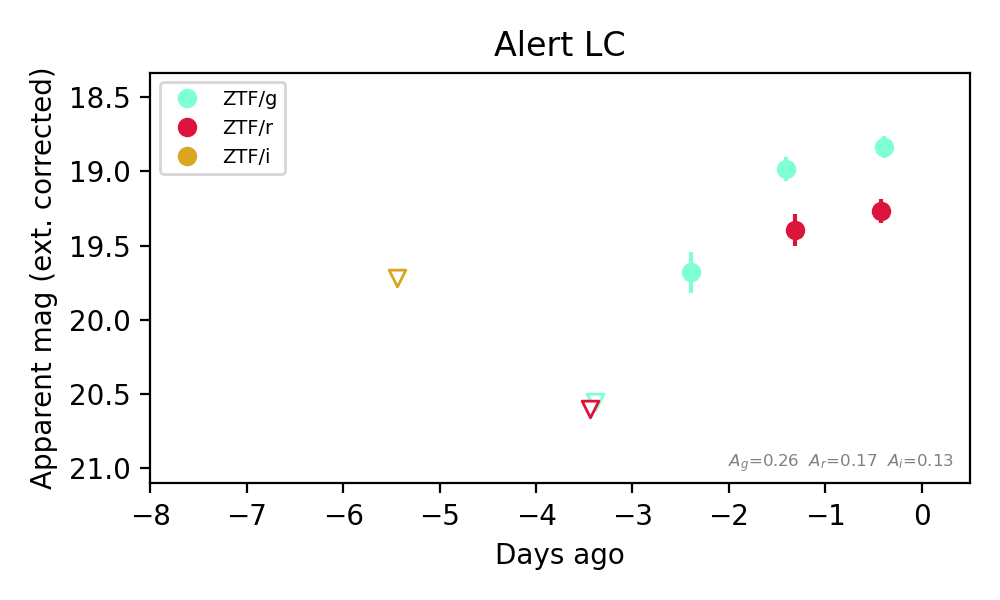
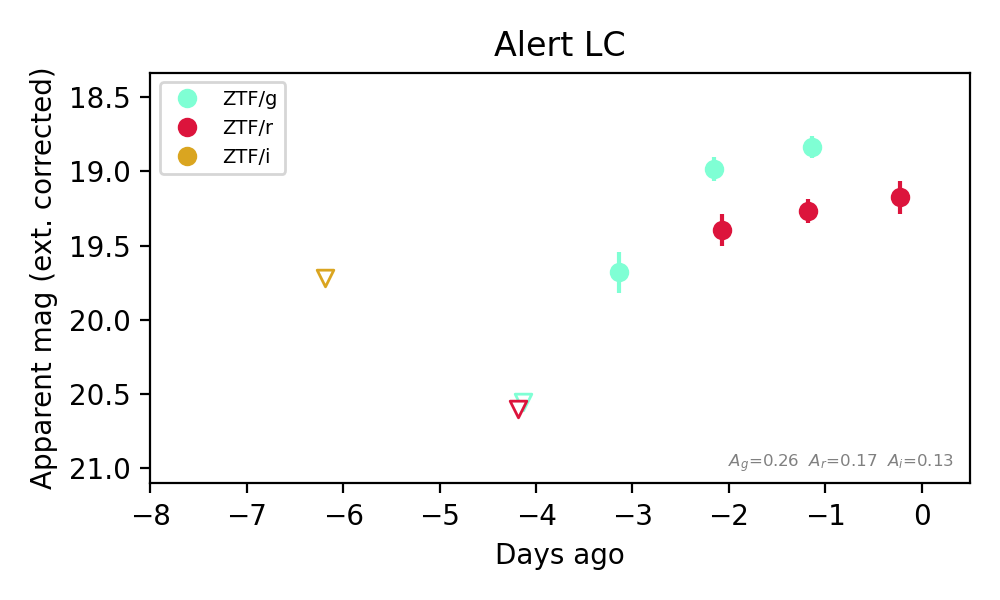
Update HTML from cron job on Mon Sep 14 07:24:53 AM EDT 2026

diff --git a/html/20260914_fastcand.html b/html/20260914_fastcand.html
@@ -1,0 +1,3 @@
+<!doctype html><html><head><title>SOURCE MARSHAL</title><style>                  * {                     box-sizing: border-box;                  }                /* Create two equal columns that floats next to each other */                .column {                         float: left;                         width: 50%;                         padding: 10px;                         #height: 220px; /* Should be removed. Only for demonstration */                }                /* Clear floats after the columns */                .row:after {                        content: "";                        display: table;                        clear: both;                }                /* Rounded corner definition */                #rcorners2 {                    border-radius: 15px;                    border: 2px solid #73AD21;                    padding: 15px;                     width: 80%;                }                table, th, td {                    border: 1px solid black;                    border-collapse: collapse;                }                th, td {                    padding: 5px;                }                th {                    text-align: right;                }                .boxed {                    width: 300px;                    border: 3px outset green;                    text-align: center;                    font-size: 20px;                    margin: 10px;                }                 </style></head><body><font size="5" color="green">Candidate List 20260914</font></br><font size="3" color="green">Last night &mdash; ZTF: 2,570 passed basic cuts (67 young) &middot; LSST: 0 passed basic cuts (0 young)</font></br></br><a href=20260913_fastcand.html target="_blank"><font size="3" color="green">Previous Day</font></a>&nbsp;&nbsp;&nbsp;&nbsp;<a href=20260915_fastcand.html target="_blank"><font size="3" color="green">Next Day</font></a>&nbsp;&nbsp;&nbsp;&nbsp;<br><br><font size="4" color="green"><a href="#sec1">Section 1: New Sources (age<1d)</a></font>&nbsp;&nbsp;&nbsp;&nbsp;<font size="4" color="green"><a href="#sec2">Section 2: Old (1-5d) sources observed last night</a></font></br><font size="1" color="white">placeholder</font></br><hr style="width:50%;text-align:left;margin-left:0"><br><div id="sec1"></div><div class="boxed">Section 1: New Afterglow/FBOT Cands Last Night (0)</div><br><br><br><div id="sec2"></div><div class="boxed">Section 2: Older Sources Observed Last Night (7)</div><div id="ZTF26abstnlr"></div>0. <a href="#ZTF26abstnlr"><b><font size="3">[ZTF] ZTF26abstnlr (Afterglow?)</font></b></a>&nbsp;&nbsp;&nbsp;&nbsp;<a href=#top>[Back to Top]</a>&nbsp;&nbsp;&nbsp;&nbsp;<a href=./ZTF26abstnlr_announcement.txt>[Share]</a>&nbsp;&nbsp;&nbsp;&nbsp;<a href=./ZTF26abstnlr_swifttoo.txt>[Trigger Swift]</a></br>&nbsp;&nbsp;&nbsp;&nbsp;[<a href="https://fritz.science/brokers?objectId=ZTF26abstnlr&survey=ZTF&ra=77.3801377&dec=3.1022618&radius=3" target="_blank">Fritz Alert</a>]&nbsp;&nbsp;&nbsp;&nbsp;[<a href="https://fritz.science/source/ZTF26abstnlr" target="_blank">Fritz Source</a>]&nbsp;&nbsp;&nbsp;&nbsp;[<a href="https://lasair-ztf.lsst.ac.uk/objects/ZTF26abstnlr/" target="_blank">Lasair</a>]</br>RA, Dec: 77.38014, 3.10226&nbsp;&nbsp;&nbsp;&nbsp; 5h 9m31.23s,  3d 6m8.14s</br>Galactic (l, b): 197.78373, -20.95422&nbsp;&nbsp;&nbsp;&nbsp;ext(g-r) = 0.091</br></br><img src="./ZTF26abstnlr_triplet.png" height="200"><a href = http://ps1images.stsci.edu/cgi-bin/ps1cutouts?pos=77.380138+3.102262&filter=color&filter=g&filter=r&filter=i&filter=z&filter=y&filetypes=stack&auxiliary=data&size=240&output_size=240&verbose=0&autoscale=99.500000><img src="./ZTF26abstnlr_ps1.png" height="200"></a><a href = http://legacysurvey.org/viewer?ra=77.380138&dec=+3.102262&zoom=16&layer=ls-dr10><img src="ZTF26abstnlr_ls.png" height="200"></a></br><br><br>TESS: Sectors [  5  32  98 110]<br><br><br><br><br>PS1: 0 sources in 3 arcsec</br><br><b>LegacySurvey: 1 sources in 3 arcsec</b>&nbsp;&nbsp;&nbsp;&nbsp;Closest: d = 0.30 arcsec, 218.8 deg (east of north)</br>&nbsp;&nbsp;&nbsp;&nbsp;photoz=0.14 (68&#37; bounds 0.12, 0.16),                         type=DEV&nbsp;&nbsp;&nbsp;&nbsp;<b>peak abs mag (ext. corrected) = -19.23 (68&#37; bounds -18.89, -19.58)</b><br><img src="ZTF26abstnlr_alert_lc.png" height="300"><br>Extinction-corrected gr color:<br>From alerts: 0.01 +/- 0.28 mag<br>Extinction-corrected gi color:<br>From alerts: 0.07 +/- 0.25 mag<br>Extinction-corrected ri color:<br>From alerts: -0.53 +/- 0.26 mag<br><b> Consistent with synchrotron, g-r>0!</b><br>Rise Rate:<br>i: 0.71 mag/day <br><br>Fade Rate:<br><br><br><div id="ZTF26absuycv"></div>1. <a href="#ZTF26abswzfk"><b><font size="3">[ZTF] ZTF26abswzfk (FBOT?)</font></b></a>&nbsp;&nbsp;&nbsp;&nbsp;<a href=#top>[Back to Top]</a>&nbsp;&nbsp;&nbsp;&nbsp;<a href=./ZTF26abswzfk_announcement.txt>[Share]</a>&nbsp;&nbsp;&nbsp;&nbsp;<a href=./ZTF26abswzfk_swifttoo.txt>[Trigger Swift]</a></br>&nbsp;&nbsp;&nbsp;&nbsp;[<a href="https://fritz.science/brokers?objectId=ZTF26abswzfk&survey=ZTF&ra=294.4668246&dec=64.80914545&radius=3" target="_blank">Fritz Alert</a>]&nbsp;&nbsp;&nbsp;&nbsp;[<a href="https://fritz.science/source/ZTF26abswzfk" target="_blank">Fritz Source</a>]&nbsp;&nbsp;&nbsp;&nbsp;[<a href="https://lasair-ztf.lsst.ac.uk/objects/ZTF26abswzfk/" target="_blank">Lasair</a>]</br>RA, Dec: 294.46682, 64.80915&nbsp;&nbsp;&nbsp;&nbsp;19h37m52.04s, 64d48m32.92s</br>Galactic (l, b): 96.65353, 19.65767&nbsp;&nbsp;&nbsp;&nbsp;ext(g-r) = 0.123</br></br><img src="./ZTF26abswzfk_triplet.png" height="200"><a href = http://ps1images.stsci.edu/cgi-bin/ps1cutouts?pos=294.466825+64.809145&filter=color&filter=g&filter=r&filter=i&filter=z&filter=y&filetypes=stack&auxiliary=data&size=240&output_size=240&verbose=0&autoscale=99.500000><img src="./ZTF26abswzfk_ps1.png" height="200"></a><a href = http://legacysurvey.org/viewer?ra=294.466825&dec=+64.809145&zoom=16&layer=ls-dr10><img src="ZTF26abswzfk_ls.png" height="200"></a></br><br><br>TESS: Sectors [ 14  15  17  18  19  20  21  22  23  24  25  26  40  41  47  48  49  50
+  51  52  53  54  55  56  57  58  59  60  73  74  75  76  77  78  79  80
+  81  82  83  84  85  86 117 118 119 120 121]<br><br><br><br><br>PS1: 0 sources in 3 arcsec</br><br><b>LegacySurvey: 1 sources in 3 arcsec</b>&nbsp;&nbsp;&nbsp;&nbsp;Closest: d = 0.33 arcsec, 325.8 deg (east of north)</br>&nbsp;&nbsp;&nbsp;&nbsp;photoz=0.12 (68&#37; bounds 0.1, 0.13),                         type=SER&nbsp;&nbsp;&nbsp;&nbsp;<b>peak abs mag (ext. corrected) = -19.66 (68&#37; bounds -19.28, -19.97)</b><br><img src="ZTF26abswzfk_alert_lc.png" height="300"><br>Extinction-corrected gr color:<br>From alerts: 0.1 +/- 0.21 mag<br><b> Consistent with synchrotron, g-r>0!</b><br>Rise Rate:<br>g: 0.25 mag/day <br>r: 0.19 mag/day <br><br>Fade Rate:<br><br><br><div id="ZTF26absvidl"></div>2. <a href="#ZTF26abthpmr"><b><font size="3">[ZTF] ZTF26abthpmr (FBOT?)</font></b></a>&nbsp;&nbsp;&nbsp;&nbsp;<a href=#top>[Back to Top]</a>&nbsp;&nbsp;&nbsp;&nbsp;<a href=./ZTF26abthpmr_announcement.txt>[Share]</a>&nbsp;&nbsp;&nbsp;&nbsp;<a href=./ZTF26abthpmr_swifttoo.txt>[Trigger Swift]</a></br>&nbsp;&nbsp;&nbsp;&nbsp;[<a href="https://fritz.science/brokers?objectId=ZTF26abthpmr&survey=ZTF&ra=346.1075752&dec=35.4085926&radius=3" target="_blank">Fritz Alert</a>]&nbsp;&nbsp;&nbsp;&nbsp;[<a href="https://fritz.science/source/ZTF26abthpmr" target="_blank">Fritz Source</a>]&nbsp;&nbsp;&nbsp;&nbsp;[<a href="https://lasair-ztf.lsst.ac.uk/objects/ZTF26abthpmr/" target="_blank">Lasair</a>]</br>RA, Dec: 346.10758, 35.40859&nbsp;&nbsp;&nbsp;&nbsp;23h 4m25.82s, 35d24m30.93s</br>Galactic (l, b): 99.5254, -22.55293&nbsp;&nbsp;&nbsp;&nbsp;ext(g-r) = 0.082</br></br><img src="./ZTF26abthpmr_triplet.png" height="200"><a href = http://ps1images.stsci.edu/cgi-bin/ps1cutouts?pos=346.107575+35.408593&filter=color&filter=g&filter=r&filter=i&filter=z&filter=y&filetypes=stack&auxiliary=data&size=240&output_size=240&verbose=0&autoscale=99.500000><img src="./ZTF26abthpmr_ps1.png" height="200"></a><a href = http://legacysurvey.org/viewer?ra=346.107575&dec=+35.408593&zoom=16&layer=ls-dr10><img src="ZTF26abthpmr_ls.png" height="200"></a></br><br><br>TESS: Sectors [16 56 83]<br><br><br><br><br><b>PS1: 1 source in 3 arcsec</b>&nbsp;&nbsp;&nbsp;&nbsp;Closest: d = 1.64 arcsec&nbsp;&nbsp;&nbsp;&nbsp;photoz=0.53+/-0.09&nbsp;&nbsp;&nbsp;&nbsp;<b>peak abs mag = -23.65</b><br>LegacySurvey: 0 sources in 3 arcsec</br><br><img src="ZTF26abthpmr_alert_lc.png" height="300"><br>Extinction-corrected gr color:<br>From alerts: -0.43 +/- 0.11 mag<br><br>Rise Rate:<br>g: 0.88 mag/day <br>r: 0.57 mag/day <br><br>Fade Rate:<br><br><br><div id="ZTF26abteaub"></div>3. <a href="#ZTF26abtqfyy"><b><font size="3">[ZTF] ZTF26abtqfyy (FBOT?)</font></b></a>&nbsp;&nbsp;&nbsp;&nbsp;<a href=#top>[Back to Top]</a>&nbsp;&nbsp;&nbsp;&nbsp;<a href=./ZTF26abtqfyy_announcement.txt>[Share]</a>&nbsp;&nbsp;&nbsp;&nbsp;<a href=./ZTF26abtqfyy_swifttoo.txt>[Trigger Swift]</a></br>&nbsp;&nbsp;&nbsp;&nbsp;[<a href="https://fritz.science/brokers?objectId=ZTF26abtqfyy&survey=ZTF&ra=342.96098645&dec=16.02354735&radius=3" target="_blank">Fritz Alert</a>]&nbsp;&nbsp;&nbsp;&nbsp;[<a href="https://fritz.science/source/ZTF26abtqfyy" target="_blank">Fritz Source</a>]&nbsp;&nbsp;&nbsp;&nbsp;[<a href="https://lasair-ztf.lsst.ac.uk/objects/ZTF26abtqfyy/" target="_blank">Lasair</a>]</br>RA, Dec: 342.96099, 16.02355&nbsp;&nbsp;&nbsp;&nbsp;22h51m50.64s, 16d 1m24.77s</br>Galactic (l, b): 85.48641, -38.00262&nbsp;&nbsp;&nbsp;&nbsp;ext(g-r) = 0.075</br></br><img src="./ZTF26abtqfyy_triplet.png" height="200"><a href = http://ps1images.stsci.edu/cgi-bin/ps1cutouts?pos=342.960986+16.023547&filter=color&filter=g&filter=r&filter=i&filter=z&filter=y&filetypes=stack&auxiliary=data&size=240&output_size=240&verbose=0&autoscale=99.500000><img src="./ZTF26abtqfyy_ps1.png" height="200"></a><a href = http://legacysurvey.org/viewer?ra=342.960986&dec=+16.023547&zoom=16&layer=ls-dr10><img src="ZTF26abtqfyy_ls.png" height="200"></a></br><br><br>TESS: Sectors [56 83]<br>SDSS (<15 kpc):Found SDSS phot-z: z=0.20; <b>peak abs mag = -20.01</b><br><br><br><br>PS1: 0 sources in 3 arcsec</br><br><b>LegacySurvey: 1 sources in 3 arcsec</b>&nbsp;&nbsp;&nbsp;&nbsp;Closest: d = 0.24 arcsec, 226.7 deg (east of north)</br>&nbsp;&nbsp;&nbsp;&nbsp;photoz=0.17 (68&#37; bounds 0.12, 0.27),                         type=DEV&nbsp;&nbsp;&nbsp;&nbsp;<b>peak abs mag (ext. corrected) = -19.62 (68&#37; bounds -18.83, -20.81)</b><br><img src="ZTF26abtqfyy_alert_lc.png" height="300"><br>Extinction-corrected gr color:<br>From alerts: -0.18 +/- 0.26 mag<br><b> Consistent with synchrotron, g-r>0!</b><br>Rise Rate:<br>g: 0.33 mag/day <br>r: 0.16 mag/day <br><br>Fade Rate:<br><br><br><div id="ZTF26absvxbj"></div>4. <a href="#ZTF26abuimso"><b><font size="3">[ZTF] ZTF26abuimso (Afterglow?)</font></b></a>&nbsp;&nbsp;&nbsp;&nbsp;<a href=#top>[Back to Top]</a>&nbsp;&nbsp;&nbsp;&nbsp;<a href=./ZTF26abuimso_announcement.txt>[Share]</a>&nbsp;&nbsp;&nbsp;&nbsp;<a href=./ZTF26abuimso_swifttoo.txt>[Trigger Swift]</a></br>&nbsp;&nbsp;&nbsp;&nbsp;[<a href="https://fritz.science/brokers?objectId=ZTF26abuimso&survey=ZTF&ra=44.0026681&dec=10.3503495&radius=3" target="_blank">Fritz Alert</a>]&nbsp;&nbsp;&nbsp;&nbsp;[<a href="https://fritz.science/source/ZTF26abuimso" target="_blank">Fritz Source</a>]&nbsp;&nbsp;&nbsp;&nbsp;[<a href="https://lasair-ztf.lsst.ac.uk/objects/ZTF26abuimso/" target="_blank">Lasair</a>]</br>RA, Dec: 44.00267, 10.35035&nbsp;&nbsp;&nbsp;&nbsp; 2h56m0.64s, 10d21m1.26s</br>Galactic (l, b): 166.02451, -41.86675&nbsp;&nbsp;&nbsp;&nbsp;ext(g-r) = 0.394</br></br><img src="./ZTF26abuimso_triplet.png" height="200"><a href = http://ps1images.stsci.edu/cgi-bin/ps1cutouts?pos=44.002668+10.350350&filter=color&filter=g&filter=r&filter=i&filter=z&filter=y&filetypes=stack&auxiliary=data&size=240&output_size=240&verbose=0&autoscale=99.500000><img src="./ZTF26abuimso_ps1.png" height="200"></a><a href = http://legacysurvey.org/viewer?ra=44.002668&dec=+10.350350&zoom=16&layer=ls-dr10><img src="ZTF26abuimso_ls.png" height="200"></a></br><br><br>TESS: Sectors [ 4 31 42 43 44 70 71]<br><br><br><br><br>PS1: 0 sources in 3 arcsec</br><br>LegacySurvey: 0 sources in 3 arcsec</br><br><img src="ZTF26abuimso_alert_lc.png" height="300"><br>Extinction-corrected gr color:<br>From alerts: 0.18 +/- 99 mag<br>Extinction-corrected gi color:<br>From alerts: -2.0 +/- 99 mag<br><br>Rise Rate:<br>g: 0.38 mag/day <br>r: 0.12 mag/day <br><br>Fade Rate:<br>g: 1.05 mag/day <br><br><br><div id="ZTF26abswzfk"></div>5. <a href="#ZTF26abujyic"><b><font size="3">[ZTF] ZTF26abujyic (FBOT?)</font></b></a>&nbsp;&nbsp;&nbsp;&nbsp;<a href=#top>[Back to Top]</a>&nbsp;&nbsp;&nbsp;&nbsp;<a href=./ZTF26abujyic_announcement.txt>[Share]</a>&nbsp;&nbsp;&nbsp;&nbsp;<a href=./ZTF26abujyic_swifttoo.txt>[Trigger Swift]</a></br>&nbsp;&nbsp;&nbsp;&nbsp;[<a href="https://fritz.science/brokers?objectId=ZTF26abujyic&survey=ZTF&ra=261.62898095&dec=23.2636341&radius=3" target="_blank">Fritz Alert</a>]&nbsp;&nbsp;&nbsp;&nbsp;[<a href="https://fritz.science/source/ZTF26abujyic" target="_blank">Fritz Source</a>]&nbsp;&nbsp;&nbsp;&nbsp;[<a href="https://lasair-ztf.lsst.ac.uk/objects/ZTF26abujyic/" target="_blank">Lasair</a>]</br>RA, Dec: 261.62898, 23.26363&nbsp;&nbsp;&nbsp;&nbsp;17h26m30.96s, 23d15m49.08s</br>Galactic (l, b): 46.06603, 28.43602&nbsp;&nbsp;&nbsp;&nbsp;ext(g-r) = 0.062</br></br><img src="./ZTF26abujyic_triplet.png" height="200"><a href = http://ps1images.stsci.edu/cgi-bin/ps1cutouts?pos=261.628981+23.263634&filter=color&filter=g&filter=r&filter=i&filter=z&filter=y&filetypes=stack&auxiliary=data&size=240&output_size=240&verbose=0&autoscale=99.500000><img src="./ZTF26abujyic_ps1.png" height="200"></a><a href = http://legacysurvey.org/viewer?ra=261.628981&dec=+23.263634&zoom=16&layer=ls-dr10><img src="ZTF26abujyic_ls.png" height="200"></a></br><br><br>TESS: Sectors [ 25  26  52  53  79 117 118]<br><br><br><br><br>PS1: 0 sources in 3 arcsec</br><br><b>LegacySurvey: 1 sources in 3 arcsec</b>&nbsp;&nbsp;&nbsp;&nbsp;Closest: d = 0.78 arcsec, 159.9 deg (east of north)</br>&nbsp;&nbsp;&nbsp;&nbsp;photoz=0.14 (68&#37; bounds 0.11, 0.17),                         type=SER&nbsp;&nbsp;&nbsp;&nbsp;<b>peak abs mag (ext. corrected) = -19.67 (68&#37; bounds -19.21, -20.11)</b><br><img src="ZTF26abujyic_alert_lc.png" height="300"><br>Extinction-corrected gr color:<br>From alerts: -0.16 +/- 0.23 mag<br><b> Consistent with synchrotron, g-r>0!</b><br>Rise Rate:<br>g: 0.13 mag/day <br>r: 0.21 mag/day <br><br>Fade Rate:<br><br><br><div id="ZTF26absxhrh"></div>6. <a href="#ZTF26abukalo"><b><font size="3">[ZTF] ZTF26abukalo (FBOT?)</font></b></a>&nbsp;&nbsp;&nbsp;&nbsp;<a href=#top>[Back to Top]</a>&nbsp;&nbsp;&nbsp;&nbsp;<a href=./ZTF26abukalo_announcement.txt>[Share]</a>&nbsp;&nbsp;&nbsp;&nbsp;<a href=./ZTF26abukalo_swifttoo.txt>[Trigger Swift]</a></br>&nbsp;&nbsp;&nbsp;&nbsp;[<a href="https://fritz.science/brokers?objectId=ZTF26abukalo&survey=ZTF&ra=281.2588392&dec=32.9437872&radius=3" target="_blank">Fritz Alert</a>]&nbsp;&nbsp;&nbsp;&nbsp;[<a href="https://fritz.science/source/ZTF26abukalo" target="_blank">Fritz Source</a>]&nbsp;&nbsp;&nbsp;&nbsp;[<a href="https://lasair-ztf.lsst.ac.uk/objects/ZTF26abukalo/" target="_blank">Lasair</a>]</br>RA, Dec: 281.25884, 32.94379&nbsp;&nbsp;&nbsp;&nbsp;18h45m2.12s, 32d56m37.63s</br>Galactic (l, b): 62.36395, 15.59488&nbsp;&nbsp;&nbsp;&nbsp;ext(g-r) = 0.08</br></br><img src="./ZTF26abukalo_triplet.png" height="200"><a href = http://ps1images.stsci.edu/cgi-bin/ps1cutouts?pos=281.258839+32.943787&filter=color&filter=g&filter=r&filter=i&filter=z&filter=y&filetypes=stack&auxiliary=data&size=240&output_size=240&verbose=0&autoscale=99.500000><img src="./ZTF26abukalo_ps1.png" height="200"></a><a href = http://legacysurvey.org/viewer?ra=281.258839&dec=+32.943787&zoom=16&layer=ls-dr10><img src="ZTF26abukalo_ls.png" height="200"></a></br><br><br>TESS: Sectors [ 26  53  54  74  80  81 118 119]<br><br><br><br><br><b>PS1: 1 source in 3 arcsec</b>&nbsp;&nbsp;&nbsp;&nbsp;Closest: d = 5.93 arcsec&nbsp;&nbsp;&nbsp;&nbsp;photoz=0.87+/-0.09&nbsp;&nbsp;&nbsp;&nbsp;<b>peak abs mag = -24.05</b><br>LegacySurvey: 0 sources in 3 arcsec</br><br><img src="ZTF26abukalo_alert_lc.png" height="300"><br>Extinction-corrected gr color:<br>From alerts: -0.2 +/- 0.23 mag<br><b> Consistent with synchrotron, g-r>0!</b><br>Rise Rate:<br>g: 0.3 mag/day <br>r: 0.34 mag/day <br><br>Fade Rate:<br><br><br><br>
